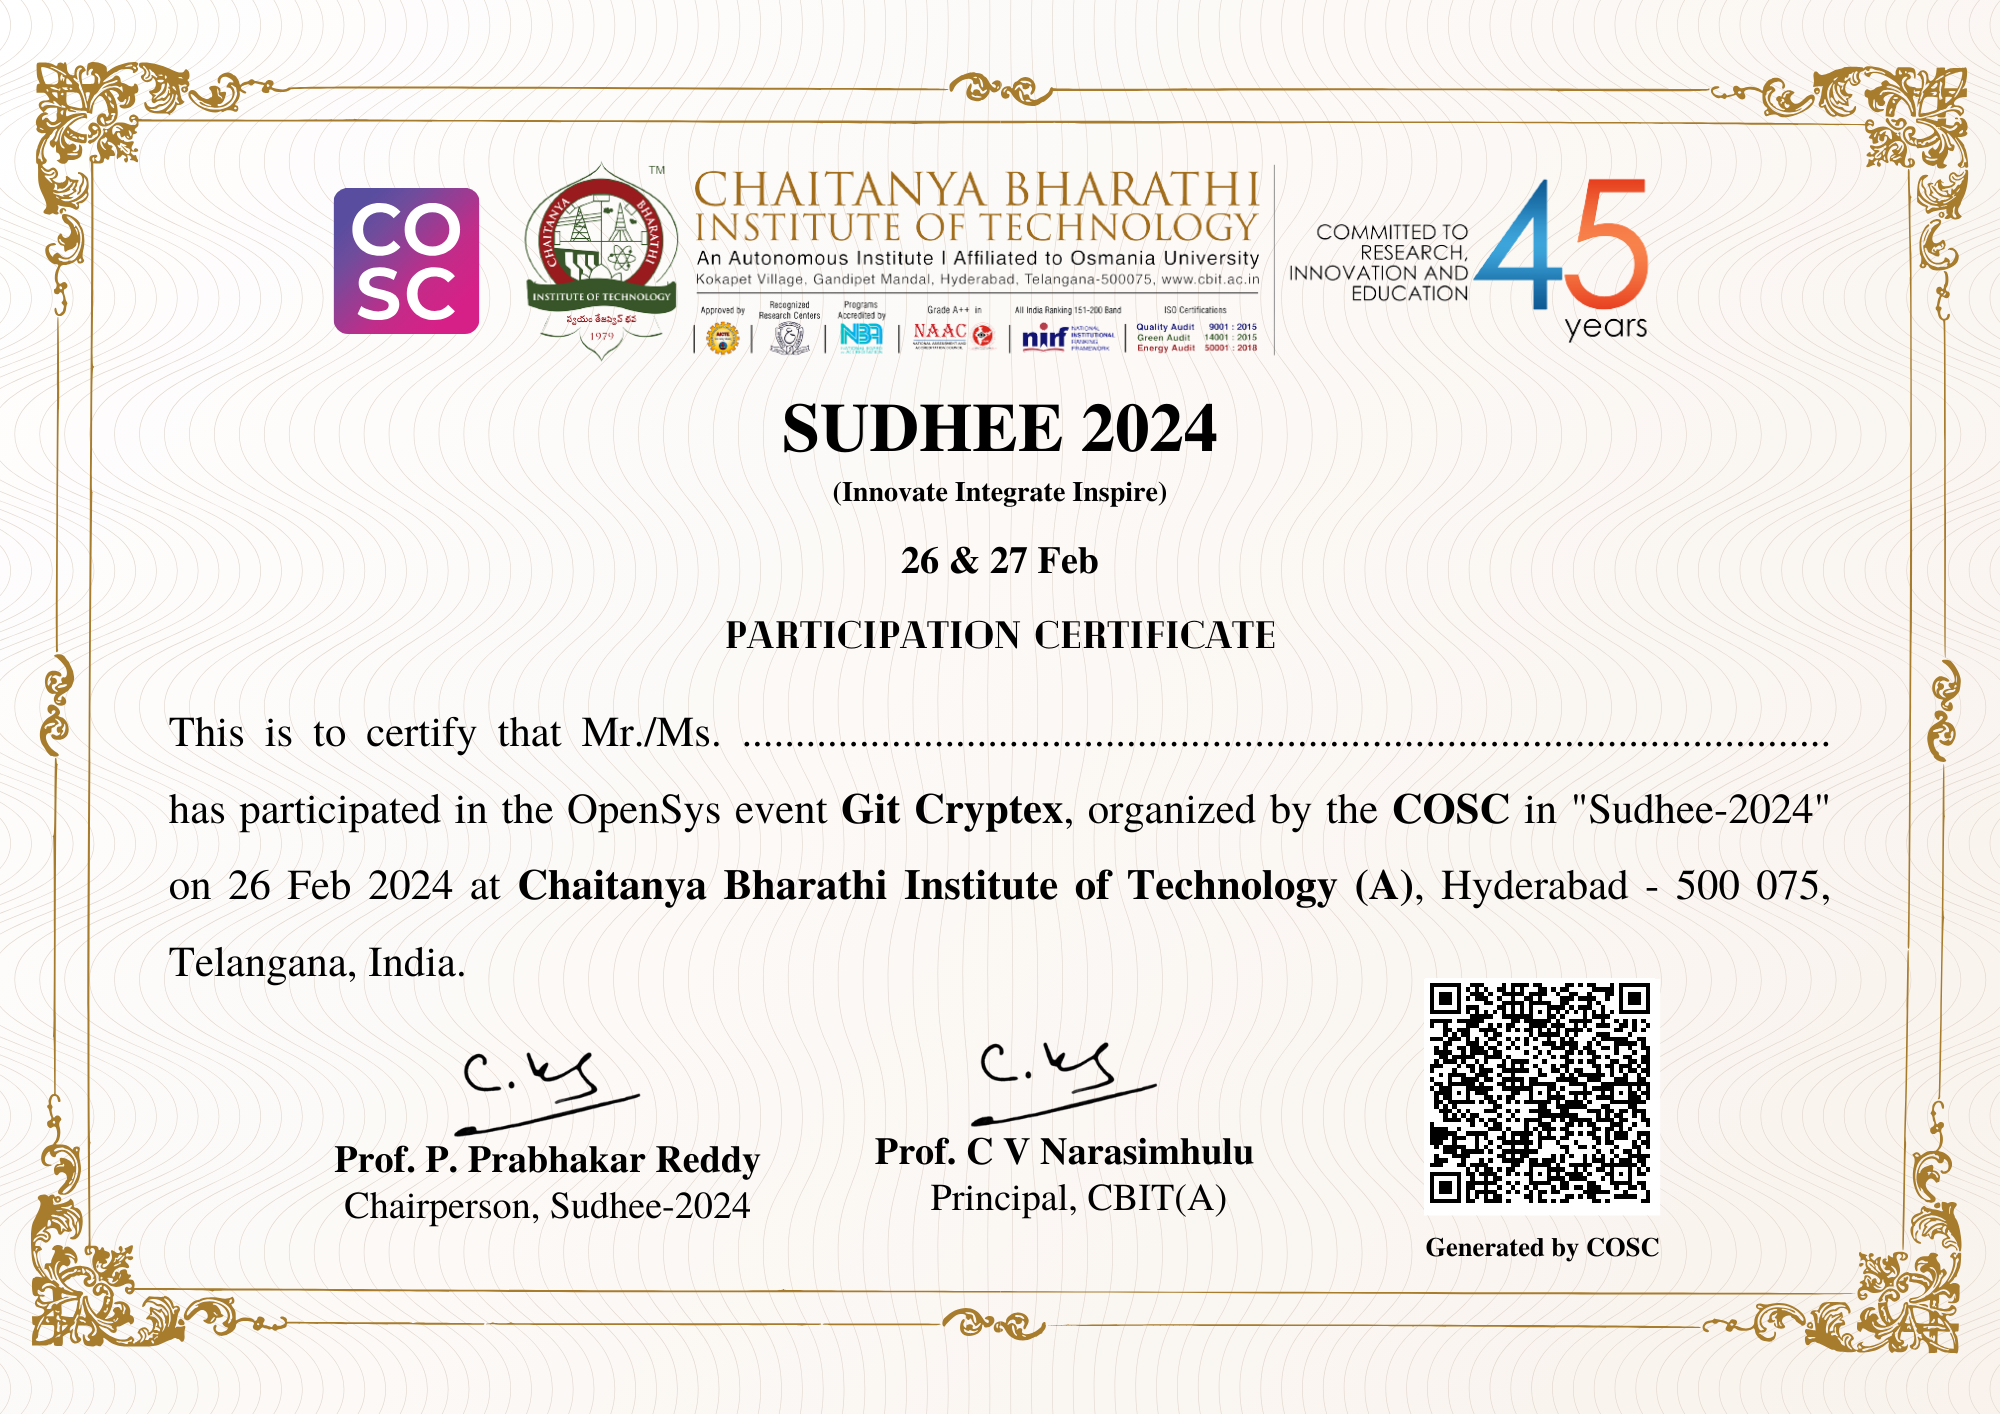
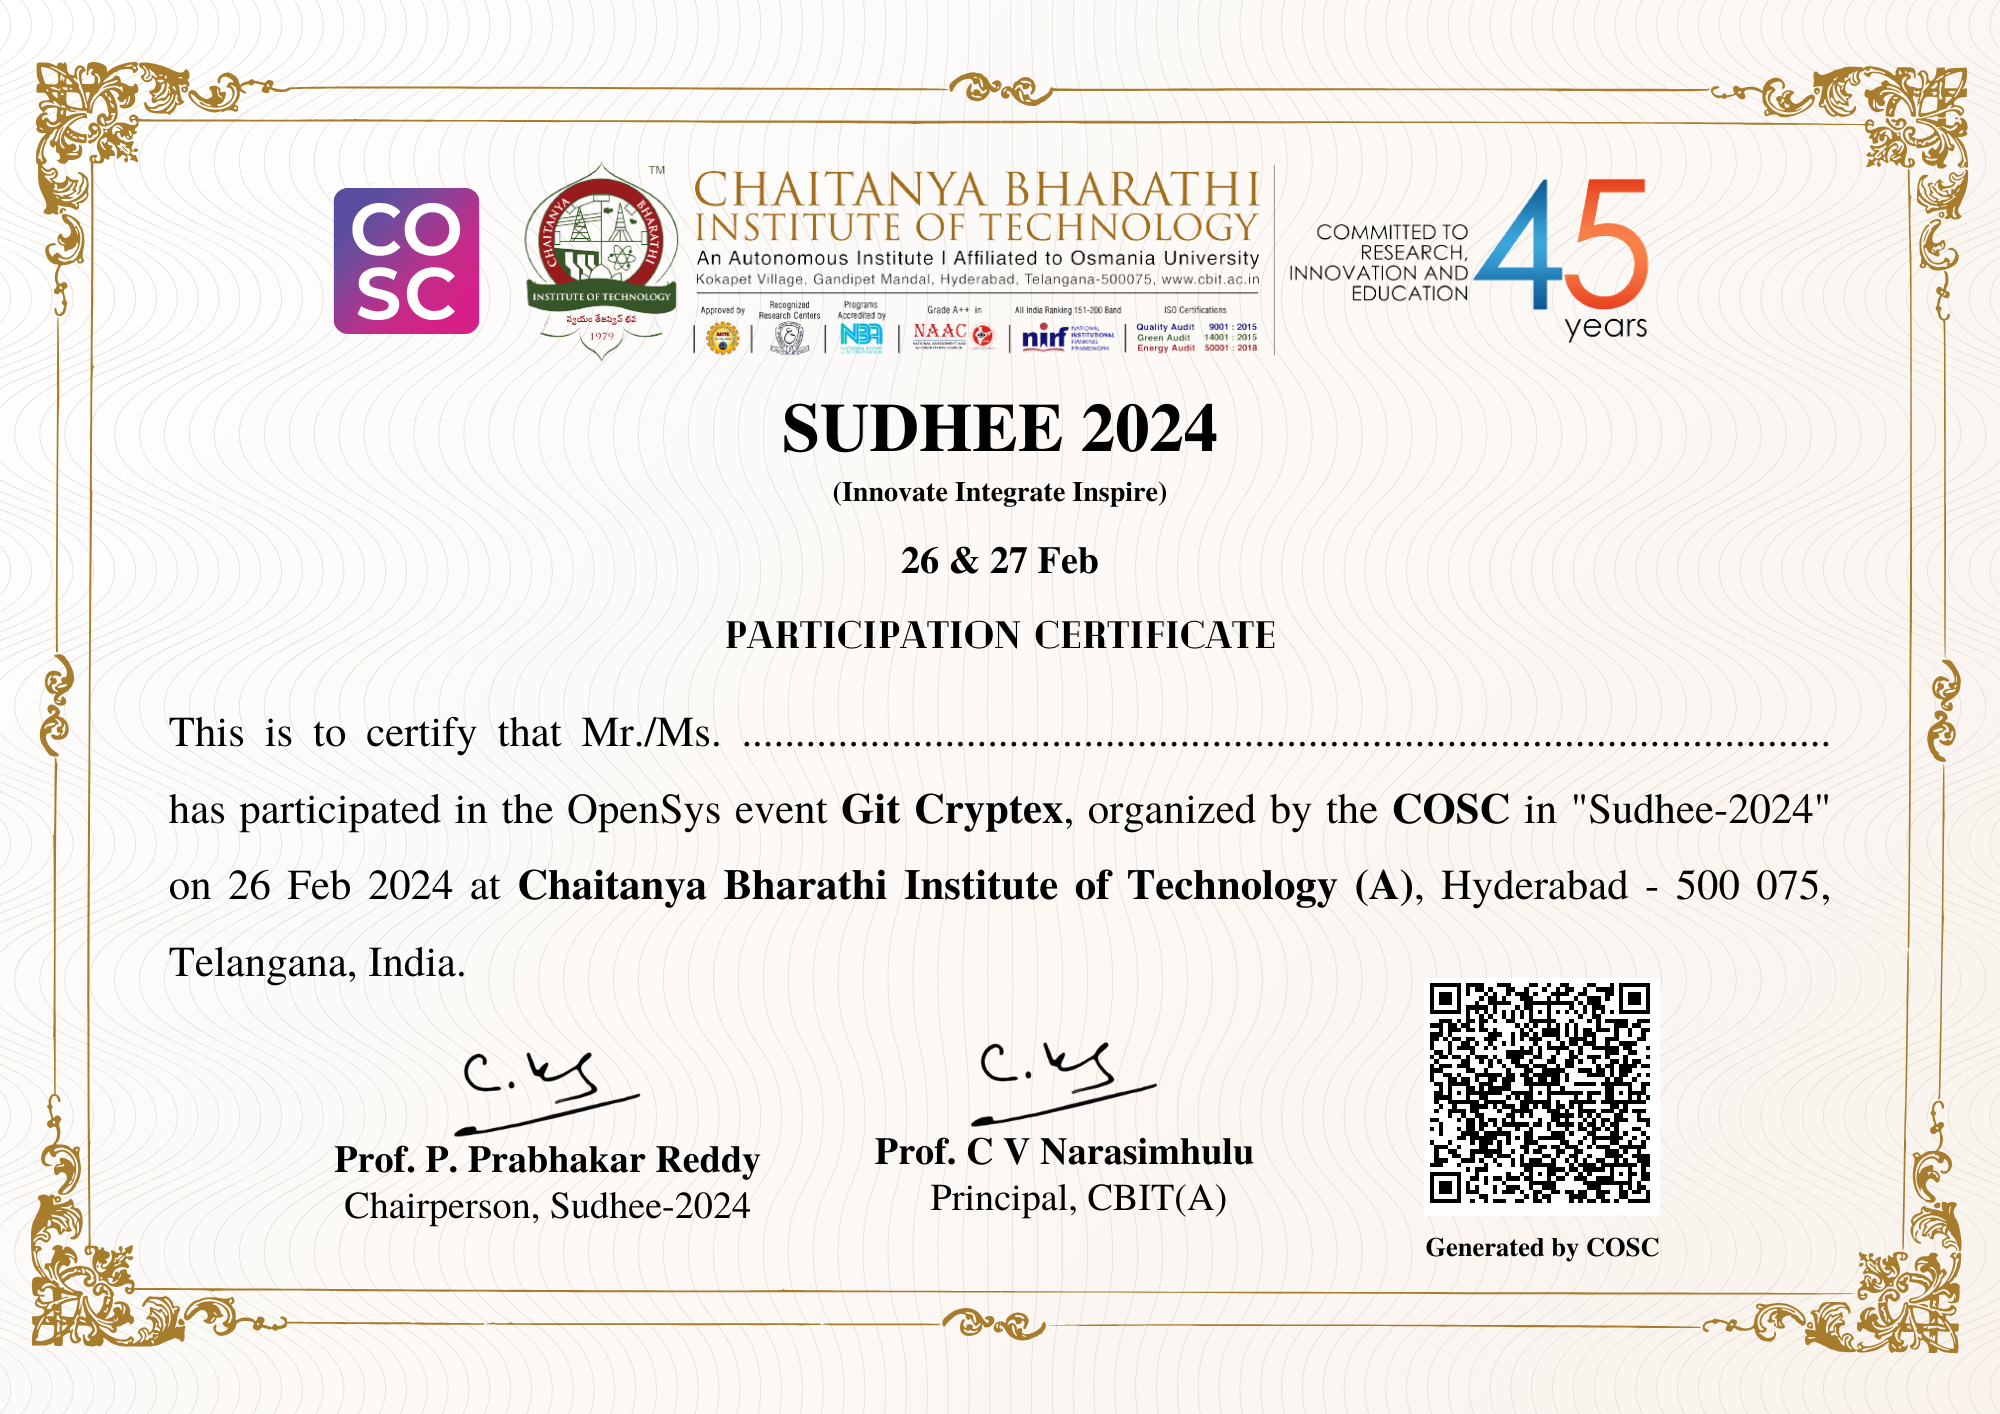
Change error correction value

Changed region(s): [[0.713, 0.6846, 0.837, 0.8713]]

diff --git a/qr-gen.py b/qr-gen.py
@@ -8,7 +8,7 @@ import json
 def generate_qr_code(data, qr_filename):
     qr = qrcode.QRCode(
         version=8,
-        error_correction=qrcode.constants.ERROR_CORRECT_L,
+        error_correction=qrcode.constants.ERROR_CORRECT_H,
         box_size=10,
         border=1,
     )
